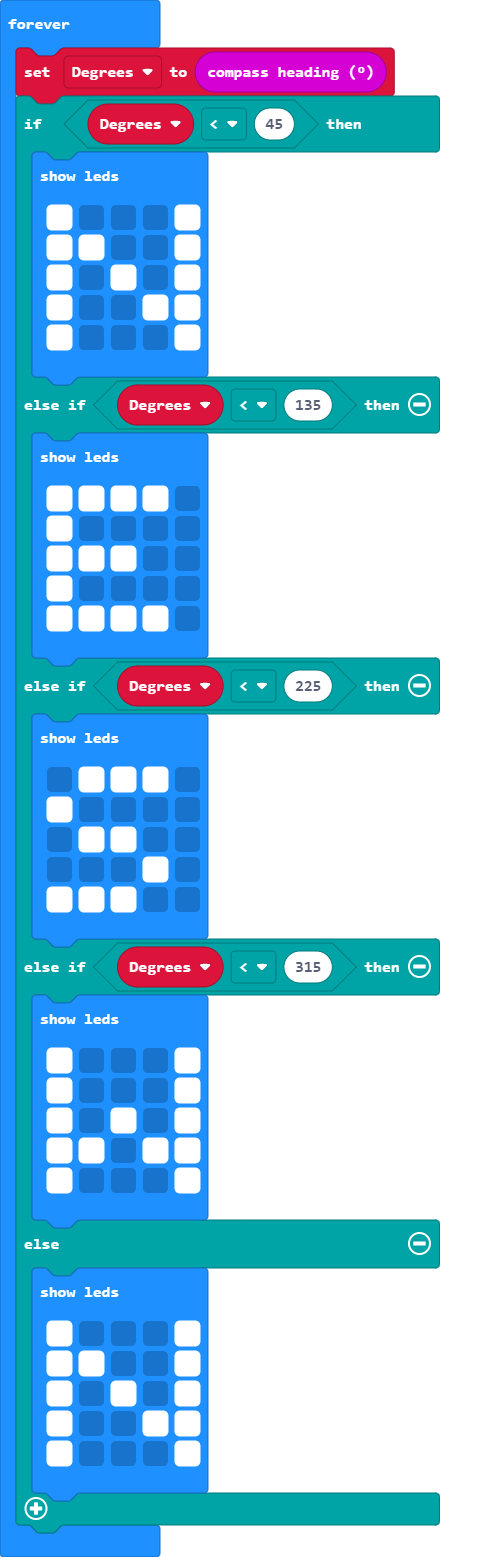
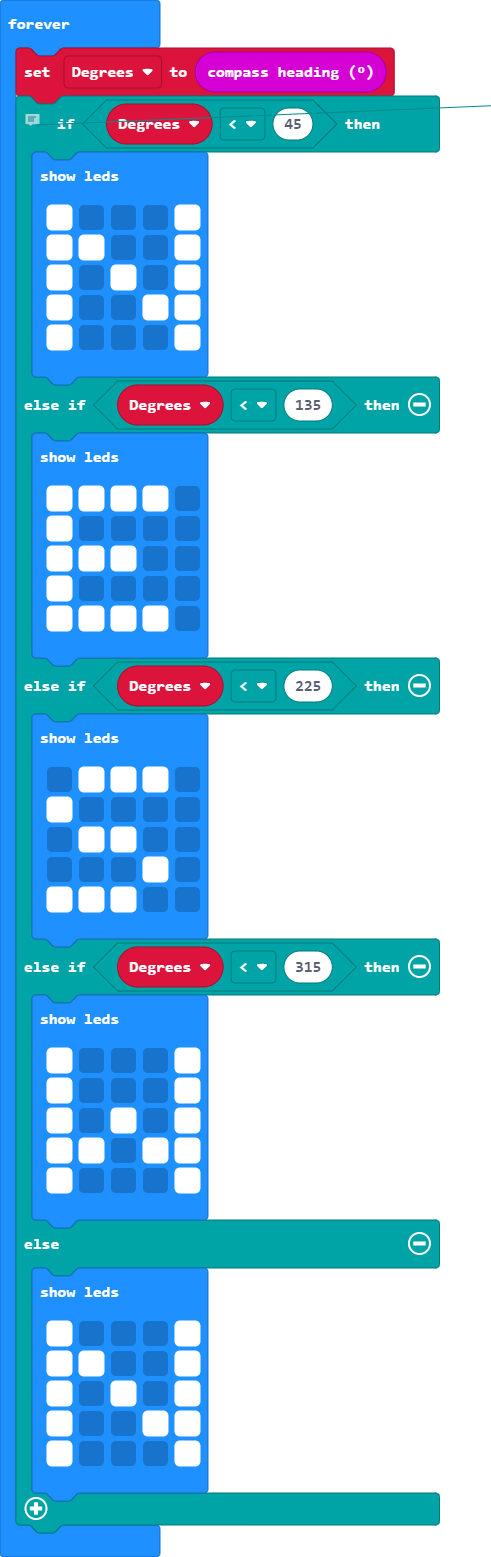
Update main.blocks, main.ts

diff --git a/main.ts b/main.ts
@@ -1,6 +1,7 @@
 let Degrees = 0
 basic.forever(function () {
     Degrees = input.compassHeading()
+    // This code tells you which direction you are facing, like a real compass.
     if (Degrees < 45) {
         basic.showLeds(`
             # . . . #
